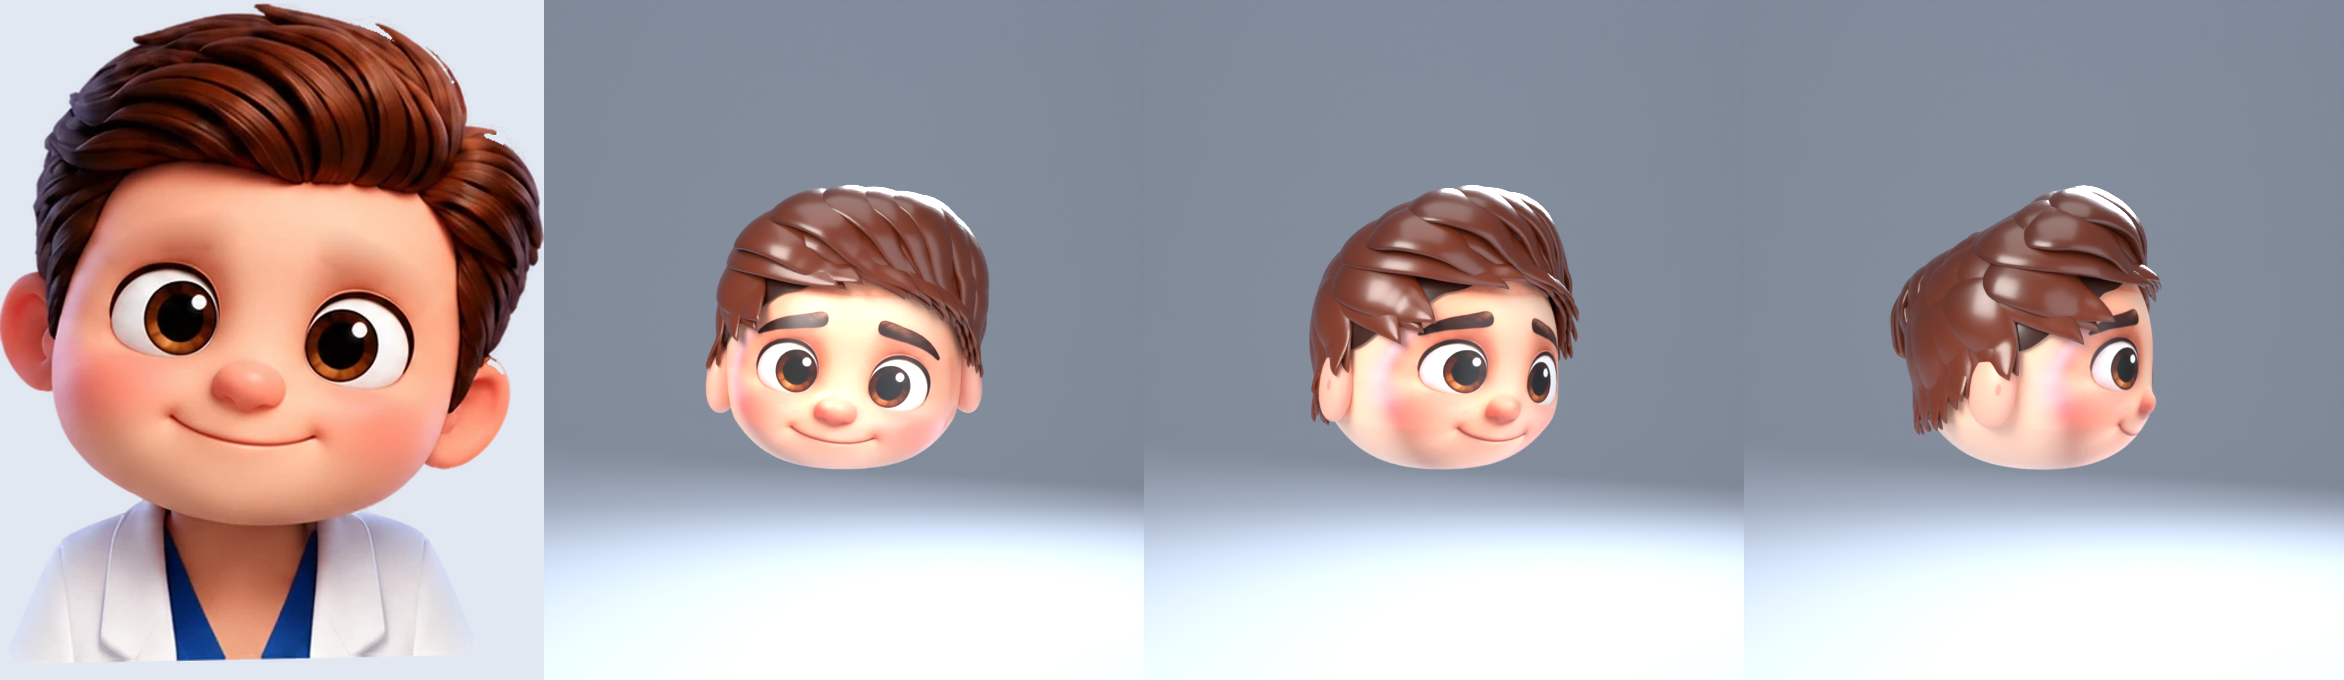
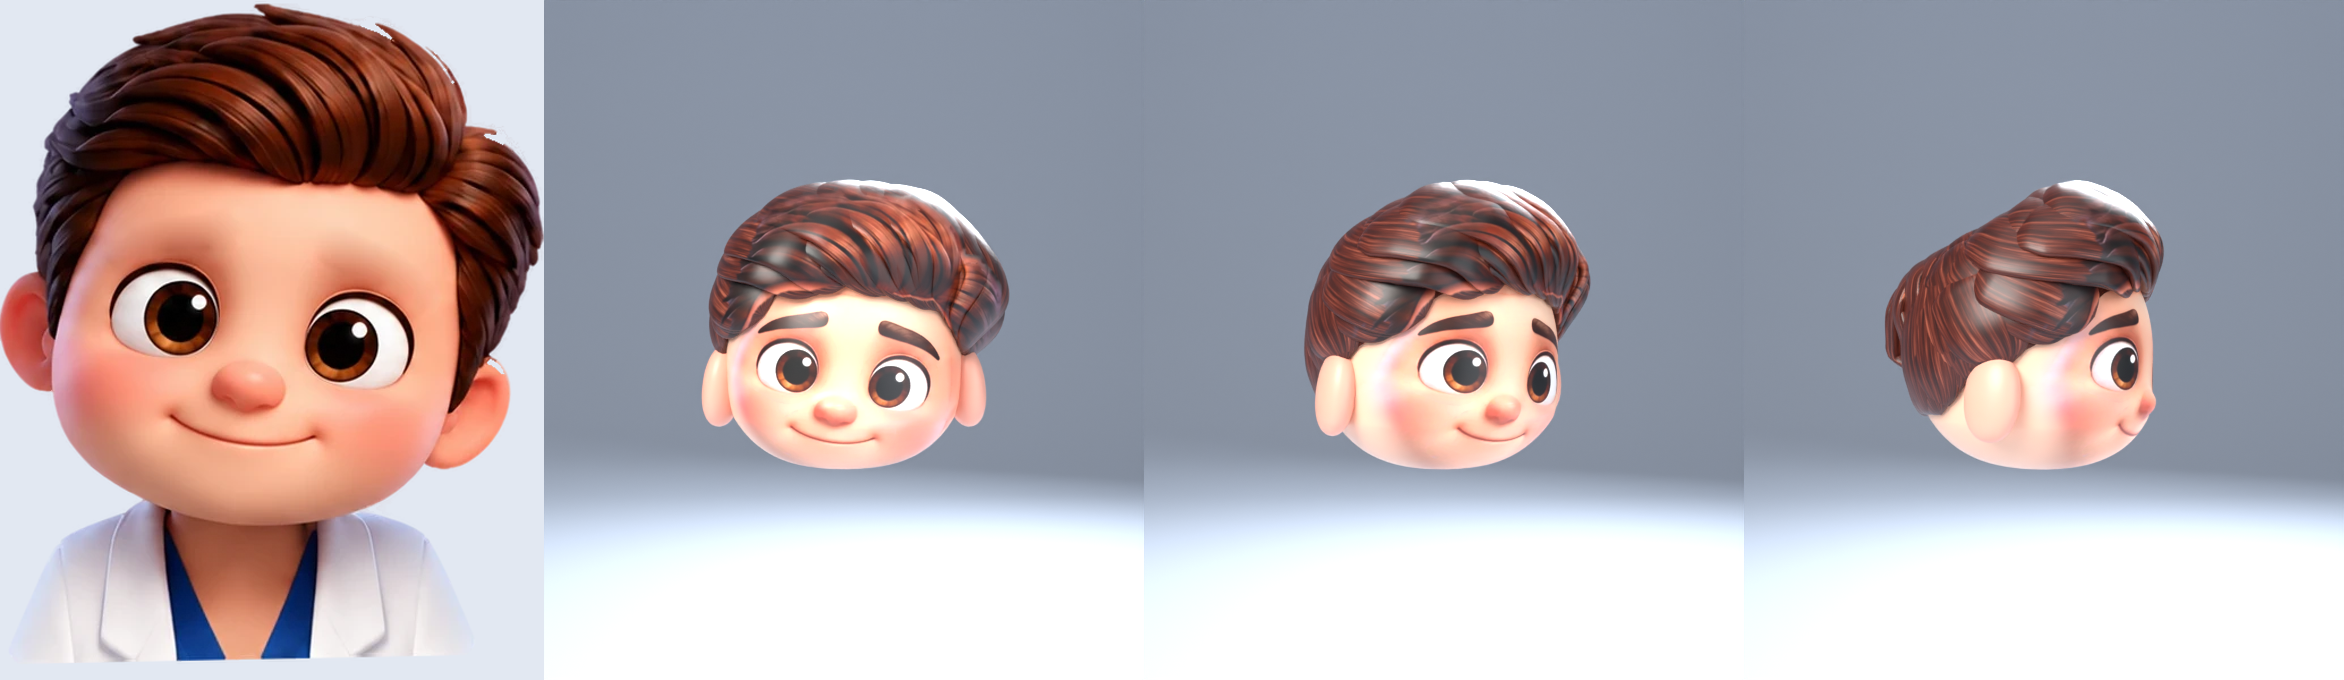
3D Dr. Smiley: art direction 3, his drawing wrapped on (Jose's pick)
STYLE 'film': the moulded locks keep the volume of the drawing's hair
outline (hair_t) but end rounded and tucked, as drawn; their material
puts base.webp's own hair on the front (front projection, prep.py
hair_textures: the hair cut out and grown into the background only) and
fine strands along each lock elsewhere, coloured with the drawing's hair
tones measured at five brightness levels. Bigger, lower ears; brighter,
warmer light; no stand, floor back under his feet. The figure style stays
as STYLE 'figure'. Poses and the turn not re-rendered yet.

Claude-Session: https://claude.ai/code/session_01KQpiRKykmEAhHZevf35uvQ

diff --git a/docs/mockups/smiley-3d/build.py b/docs/mockups/smiley-3d/build.py
@@ -312,11 +312,12 @@ def build_head(mats, coll):
 def build_ears(mats, coll):
     obs = []
     for side in (-1, 1):
-        c = head_point(sph(side * 90, -12)) + Vector((side * .006, .012, HZ))
+        big = 1.18 if STYLE_NOW == 'film' else 1.0      # the drawing's ears are big and sit low
+        c = head_point(sph(side * 90, -16 if big > 1 else -12)) + Vector((side * .008, .012, HZ))
         rot = Matrix.Rotation(math.radians(side * 18), 3, 'Z') @ Matrix.Rotation(math.radians(-8 * side), 3, 'Y')
-        outer = ellipsoid(f'Ear.{"L" if side > 0 else "R"}', c, (.026, .042, .058), mat=mats['ear'], rot=rot, p=2.2)
-        inner = ellipsoid(f'EarIn.{"L" if side > 0 else "R"}', c + rot @ Vector((side * .012, -.006, 0)),
-                          (.012, .028, .040), mat=mats['earin'], rot=rot)
+        outer = ellipsoid(f'Ear.{"L" if side > 0 else "R"}', c, (.026 * big, .042 * big, .058 * big), mat=mats['ear'], rot=rot, p=2.2)
+        inner = ellipsoid(f'EarIn.{"L" if side > 0 else "R"}', c + rot @ Vector((side * .012 * big, -.006, 0)),
+                          (.012 * big, .028 * big, .040 * big), mat=mats['earin'], rot=rot)
         for o in (outer, inner):
             coll.objects.link(o); bpy.context.scene.collection.objects.unlink(o)
         obs += [outer, inner]
@@ -547,7 +548,7 @@ def hair_t(d):
     return t / 1000 * k * (.25 + .75 * ramp)
 
 
-def fig_lock_traced(name, dirs, width, frac, flick, segs=18):
+def fig_lock_traced(name, dirs, width, frac, flick, segs=18, tuck=False):
     """A moulded lock along a streamline, lying at `frac` of the envelope."""
     m = len(dirs)
     if m < 4:
@@ -558,26 +559,35 @@ def fig_lock_traced(name, dirs, width, frac, flick, segs=18):
         f = max(0, min(1, (t - .7) / .3))
         root = min(1, t / .18) ** .7          # roots tuck into the cap at the crown
         rise = .004 + root * frac * 1.1 * hair_t(d) * (.6 + .4 * math.sin(math.pi * min(1, t * 1.6))) + flick * f * f * (3 - 2 * f)
+        if tuck:                               # drawn hair: the ends curl in against the head
+            rise = .004 + root * frac * 1.1 * hair_t(d) * (1 - .75 * f * f * (3 - 2 * f))
         spine.append((head_point(d, grow=rise), head_point(d, grow=rise + .01)))
-    verts, along = [], []
+    verts, along, uv_front, uv_lock = [], [], [], []
+    length = sum((spine[i + 1][0] - spine[i][0]).length for i in range(m - 1))
     for i, (p, pn) in enumerate(spine):
         t = i / (m - 1)
         tan = (spine[min(i + 1, m - 1)][0] - spine[max(i - 1, 0)][0]).normalized()
         nrm = (pn - p) - tan * (pn - p).dot(tan)
         nrm.normalize()
         bi = tan.cross(nrm)
-        w = width * (.45 + .55 * min(1, t / .25)) * max(0, 1 - t ** 2.4) ** .9
+        w = width * (.45 + .55 * min(1, t / .25)) * (max(0, 1 - t ** 4) ** .45 if tuck else max(0, 1 - t ** 2.4) ** .9)
         h = max(.004, .32 * w)
         if i == m - 1:
             w, h = .0004, .0004
         for k in range(segs):
             a = 2 * math.pi * k / segs
             sa = math.sin(a)
-            verts.append(p + bi * (w * math.cos(a)) + nrm * (h * sa * abs(sa) ** .35))
+            v = p + bi * (w * math.cos(a)) + nrm * (h * sa * abs(sa) ** .35)
+            verts.append(v)
             along.append(t)
-    ob = mesh_obj(name, verts, grid_faces(m, segs))
+            uv_front.append(((FACE_PX[0] + v.x * 1000) / 480, 1 - (FACE_PX[1] - v.z * 1000) / 600))
+            uv_lock.append((k / segs * width / .05, t * length / .05))
+    ob = mesh_obj(name, verts, grid_faces(m, segs), uvs=uv_front)
     ob.data.attributes.new('along', 'FLOAT', 'POINT').data.foreach_set('value', along)
-    ob.data.uv_layers.new(name='UVMap')
+    lay = ob.data.uv_layers.new(name='Lock')
+    for poly in ob.data.polygons:
+        for li in poly.loop_indices:
+            lay.data[li].uv = uv_lock[ob.data.loops[li].vertex_index]
     return ob
 
 
@@ -651,6 +661,7 @@ def build_hair_figure(mats, coll):
     cap = mesh_obj('HairCap', verts, faces, coll=coll)
     cap.data.attributes.new('along', 'FLOAT', 'POINT').data.foreach_set('value', [0.0] * len(verts))
     cap.data.uv_layers.new(name='UVMap')
+    cap.data.uv_layers.new(name='Lock')
     cap.data.materials.append(mats['hair'])
     parts.append(cap)
     # a little swirl where the locks meet at the crown
@@ -659,6 +670,7 @@ def build_hair_figure(mats, coll):
                        rot=WHORL.to_track_quat('Z', 'Y').to_matrix())
         sw.data.attributes.new('along', 'FLOAT', 'POINT').data.foreach_set('value', [.3] * len(sw.data.vertices))
         sw.data.uv_layers.new(name='UVMap')
+        sw.data.uv_layers.new(name='Lock')
         parts.append(sw)
     # locks traced from the crown (flow()), in three layers up to the envelope
     up = Vector((0, 0, 1))
@@ -673,10 +685,12 @@ def build_hair_figure(mats, coll):
             r = math.radians(ring + rng.uniform(-3, 3))
             d = (WHORL * math.cos(r) + (e1 * math.cos(ang) + e2 * math.sin(ang)) * math.sin(r)).normalized()
             dirs = trace(d, 3.0)
-            # carry on a little past the hairline so the tips end in points
-            for _ in range(4):
-                dirs.append((dirs[-1] + flow(dirs[-1]) * .03).normalized())
-            ob = fig_lock_traced(f'Lock.{i:02d}', dirs, rng.uniform(wmin, wmax), frac, .010 + .008 * layer)
+            tuck = STYLE_NOW == 'film'
+            if not tuck:                       # figure: carry on past the hairline so the tips end in points
+                for _ in range(4):
+                    dirs.append((dirs[-1] + flow(dirs[-1]) * .03).normalized())
+            wd = rng.uniform(wmin, wmax) * (1.25 if tuck else 1)
+            ob = fig_lock_traced(f'Lock.{i:02d}', dirs, wd, frac, .010 + .008 * layer, tuck=tuck)
             i += 1
             if ob:
                 ob.location.z = HZ
@@ -688,6 +702,92 @@ def build_hair_figure(mats, coll):
         if o.name in bpy.context.scene.collection.objects:
             bpy.context.scene.collection.objects.unlink(o)
     return join(parts, 'Hair')
+
+
+# ---------- the hair, wrapped (art direction 3, Jose's pick 2026-10-21) ----------
+def hair_film_material():
+    """His drawn hair on the front (projected like the face), drawn strands
+    from the same drawing everywhere else (box-mapped tile), blended by how
+    much the surface faces forward."""
+    m = principled('HairFilm', srgb(110, 42, 18), rough=.42, coat=.06)
+    N, L = m.node_tree.nodes, m.node_tree.links
+    b = N['Principled BSDF']
+    uv = N.new('ShaderNodeUVMap'); uv.uv_map = 'UVMap'
+    front = N.new('ShaderNodeTexImage'); front.name = 'HairFront'
+    front.image = bpy.data.images.load(os.path.join(TEX, 'hair_front.png'), check_existing=True)
+    front.extension = 'CLIP'; front.interpolation = 'Cubic'
+    L.new(uv.outputs['UV'], front.inputs['Vector'])
+    tc = N.new('ShaderNodeTexCoord')
+    luv = N.new('ShaderNodeUVMap'); luv.uv_map = 'Lock'
+    mp = N.new('ShaderNodeMapping')      # fine strands: fast across the lock, slow along it
+    mp.inputs['Scale'].default_value = (40, .5, 1)
+    L.new(luv.outputs['UV'], mp.inputs['Vector'])
+    nz = N.new('ShaderNodeTexNoise')
+    nz.inputs['Scale'].default_value = 1.0
+    nz.inputs['Detail'].default_value = 4
+    nz.inputs['Roughness'].default_value = .55
+    L.new(mp.outputs['Vector'], nz.inputs['Vector'])
+    tile = N.new('ShaderNodeValToRGB'); tile.name = 'HairStrands'   # browns sampled from his drawn hair
+    cr = tile.color_ramp
+    # the drawing's hair tones at its 10th, 30th, 50th, 70th and 90th percentiles of brightness
+    cr.elements[0].position, cr.elements[0].color = .32, srgb(30, 5, 2)
+    cr.elements[1].position, cr.elements[1].color = .44, srgb(56, 14, 5)
+    for pos, col in ((.52, (76, 23, 10)), (.60, (100, 42, 28)), (.70, (146, 76, 56))):
+        e = cr.elements.new(pos); e.color = srgb(*col)
+    L.new(nz.outputs['Fac'], tile.inputs['Fac'])
+    sep = N.new('ShaderNodeSeparateXYZ')
+    L.new(tc.outputs['Normal'], sep.inputs['Vector'])
+    mr = N.new('ShaderNodeMapRange')
+    mr.inputs['From Min'].default_value = -.2
+    mr.inputs['From Max'].default_value = -.6
+    L.new(sep.outputs['Y'], mr.inputs['Value'])
+    w = N.new('ShaderNodeMath'); w.operation = 'MULTIPLY'
+    L.new(mr.outputs['Result'], w.inputs[0]); L.new(front.outputs['Alpha'], w.inputs[1])
+    soft = N.new('ShaderNodeMix'); soft.data_type = 'RGBA'   # the drawn gaps are deep; soften them on the sides
+    soft.inputs['Factor'].default_value = 0.0
+    soft.inputs['B'].default_value = srgb(72, 22, 10)
+    L.new(tile.outputs['Color'], soft.inputs['A'])
+    mix = N.new('ShaderNodeMix'); mix.data_type = 'RGBA'
+    L.new(w.outputs['Value'], mix.inputs['Factor'])
+    L.new(soft.outputs['Result'], mix.inputs['A']); L.new(front.outputs['Color'], mix.inputs['B'])
+    L.new(mix.outputs['Result'], b.inputs['Base Color'])
+    L.new(mix.outputs['Result'], b.inputs['Emission Color'])
+    b.inputs['Emission Strength'].default_value = .16
+    return m
+
+
+def build_hair_film(mats, coll):
+    """One smooth hair shape filling the drawing's outline (hair_t), its lower
+    edge tucked into the head, with front-projection UVs like the face."""
+    segs, rings = 160, 70
+    verts, uvs, rows = [], [], []
+    for r in range(-1, rings + 1):
+        row = []
+        for s_ in range(segs):
+            az = 360 * s_ / segs - 180
+            lo = hairline(az)
+            if r < 0:
+                d = sph(az, lo - 3); g = -.006
+            else:
+                el = lo + (89.6 - lo) * (r / rings) ** .9
+                d = sph(az, el); g = .004 + 1.08 * hair_t(d)
+            p = head_point(d, grow=g)
+            row.append(len(verts))
+            verts.append(p + Vector((0, 0, HZ)))
+            uvs.append(((FACE_PX[0] + p.x * 1000) / 480, 1 - (FACE_PX[1] - p.z * 1000) / 600))
+        rows.append(row)
+    faces = []
+    for r in range(len(rows) - 1):
+        for s_ in range(segs):
+            faces.append((rows[r][s_], rows[r][(s_ + 1) % segs], rows[r + 1][(s_ + 1) % segs], rows[r + 1][s_]))
+    top = len(verts)
+    p = head_point((0, 0, 1), grow=.004 + 1.08 * hair_t(Vector((0, 0, 1))))
+    verts.append(p + Vector((0, 0, HZ)))
+    uvs.append(((FACE_PX[0] + p.x * 1000) / 480, 1 - (FACE_PX[1] - p.z * 1000) / 600))
+    faces += [(rows[-1][s_], rows[-1][(s_ + 1) % segs], top) for s_ in range(segs)]
+    ob = mesh_obj('Hair', verts, faces, uvs=uvs, coll=coll)
+    ob.data.materials.append(mats['hair'])
+    return ob
 
 
 def join(obs, name):
@@ -1186,7 +1286,7 @@ def studio():
     sc.cycles.use_denoising = True
     sc.view_settings.view_transform = 'Standard'
     sc.view_settings.look = 'None'
-    sc.view_settings.exposure = -.75
+    sc.view_settings.exposure = -.5 if STYLE_NOW == 'film' else -.75
     sc.render.film_transparent = False
     w = bpy.data.worlds.new('World'); sc.world = w
     w.use_nodes = True
@@ -1203,7 +1303,7 @@ def studio():
     area('Key', (-1.4, -2.0, 2.2), (0, 0, .6), 1.6, 190, (1, .97, .92))
     area('Fill', (2.0, -1.6, 1.0), (0, 0, .6), 2.5, 70, (.88, .93, 1))
     area('Rim', (.6, 2.2, 2.0), (0, 0, .7), 1.2, 160, (.9, .95, 1))
-    area('Top', (0, -.3, 3.0), (0, 0, .5), 2.0, 50)
+    area('Top', (0, -.3, 3.0), (0, 0, .5), 2.0, 50 if STYLE_NOW != 'film' else 20)
     # floor: a soft studio sweep (floor curving up into a back wall) in the app's blue-grey
     prof = []
     for i in range(41):
@@ -1220,7 +1320,8 @@ def studio():
             vs.append((x, y, z))
     m = len(prof)
     fs = [(i, i + 1, m + i + 1, m + i) for i in range(m - 1)]
-    fl = mesh_obj('Floor', [(x, y, z - STAND_H) for x, y, z in vs], fs)
+    drop = STAND_H if STYLE_NOW == 'figure' else 0
+    fl = mesh_obj('Floor', [(x, y, z - drop) for x, y, z in vs], fs)
     fm = principled('Floor', srgb(196, 206, 222), rough=.7, coat=0)
     fl.data.materials.append(fm)
     cam_d = bpy.data.cameras.new('Cam'); cam_d.lens = 85
@@ -1249,11 +1350,15 @@ def look(cam, target, dist, az, el):
     cam.rotation_euler = (t - cam.location).to_track_quat('-Z', 'Y').to_euler()
 
 
-STYLE = 'figure'      # 'figure' (art direction 2) or 'v1' (the first look, kept for comparison)
+STYLE = 'film'        # 'film' (art direction 3: his drawing wrapped on), 'figure' (2) or 'v1' (the first look)
+
+
+STYLE_NOW = STYLE
 
 
 def build(head_only=False, style=None):
-    style = style or STYLE
+    global STYLE_NOW
+    style = STYLE_NOW = style or STYLE
     bpy.ops.wm.read_factory_settings(use_empty=True)
     coll = bpy.data.collections.new('DrSmiley'); bpy.context.scene.collection.children.link(coll)
     mats = {
@@ -1261,7 +1366,7 @@ def build(head_only=False, style=None):
         'skin': principled('Skin', SKIN, rough=.42, coat=.18, sss=.12),
         'ear': principled('Ear', SKIN_EAR, rough=.45, coat=.15, sss=.15),
         'earin': principled('EarIn', srgb(236, 140, 128), rough=.5, coat=.1, sss=.15),
-        'hair': fig_hair_material() if style == 'figure' else hair_material(),
+        'hair': {'figure': fig_hair_material, 'film': hair_film_material}.get(style, hair_material)(),
         'coat': principled('Coat', COAT, rough=.42, coat=.3) if style == 'figure' else principled('Coat', COAT, rough=.55, coat=.12, sheen=.3),
         'scrub': principled('Scrubs', SCRUB, rough=.45, coat=.25) if style == 'figure' else principled('Scrubs', SCRUB, rough=.6, coat=.08, sheen=.4),
         'shoe': principled('Shoe', SHOE, rough=.4, coat=.3),
@@ -1279,7 +1384,7 @@ def build(head_only=False, style=None):
     ears = build_ears(mats, coll)
     for e in ears:
         subsurf(e, 1)
-    hair = build_hair_figure(mats, coll) if style == 'figure' else build_hair(mats, coll)
+    hair = {'figure': build_hair_figure, 'film': build_hair_figure}.get(style, build_hair)(mats, coll)
     subsurf(hair, 1)
     arm = None
     if not head_only:

diff --git a/docs/mockups/smiley-3d/prep.py b/docs/mockups/smiley-3d/prep.py
@@ -136,3 +136,51 @@ if __name__ == '__main__':
         name = job[2] if len(job) > 2 else f
         face_texture(f, b, base).save(os.path.join(OUT, f'face_{name}.png'))
         print('tex', f, b)
+
+
+def hair_textures():
+    """The drawing's own hair, for wrapping: hair_front.png (base.webp's hair
+    only, its edge grown a few pixels so the 3D outline never shows the
+    background) and hair_tile.png (a patch of drawn strands, mirrored so it
+    repeats without seams, for the sides, top and back)."""
+    im = np.array(load('base.webp')).astype(np.float32)
+    R, G, B, A = [im[..., i] for i in range(4)]
+    mx = np.maximum(np.maximum(R, G), B)
+    hair = (A > 128) & (((mx < 175) & (R > G * 1.15) & (R > B * 1.3)) | ((R < 215) & (G < 130) & (B < 100) & (R > G + 30)))
+    h, w = R.shape
+    yy, xx = np.mgrid[0:h, 0:w]
+    cx, cy, rx, ry = OVAL
+    face = ((xx - cx) / (rx * .93)) ** 2 + ((yy - cy) / (ry * .93)) ** 2 < 1
+    ears = ((xx < 70) & (yy > 235)) | ((xx > 395) & (yy > 330))
+    keep = hair & ~face & ~ears & (yy < 400)
+    keep = cv2.morphologyEx(keep.astype(np.uint8), cv2.MORPH_CLOSE, np.ones((7, 7), np.uint8)) > 0
+    # keep only the big hair region (drops stray dark pixels in the eyes, mouth)
+    n, lab, stats, _ = cv2.connectedComponentsWithStats(keep.astype(np.uint8))
+    big = 1 + int(np.argmax(stats[1:, cv2.CC_STAT_AREA]))
+    keep = lab == big
+    rgb = im[..., :3].astype(np.uint8).copy()
+    # grow the colour outwards (into the background only, never into skin) so
+    # the 3D outline can sit a little past the drawn one
+    bgnd = A < 128
+    grow = (cv2.dilate(keep.astype(np.uint8), np.ones((15, 15), np.uint8)) > 0) & bgnd
+    rgb = cv2.inpaint(rgb, grow.astype(np.uint8) * 255, 7, cv2.INPAINT_TELEA)
+    soft = keep | grow
+    alpha = cv2.GaussianBlur(soft.astype(np.uint8) * 255, (5, 5), 0)
+    out = np.dstack([rgb, alpha])
+    img = Image.fromarray(out, 'RGBA').resize((w * SCALE, h * SCALE), Image.LANCZOS)
+    img.save(os.path.join(OUT, 'hair_front.png'))
+    # strands for everywhere else: a patch of drawn hair made seamless by
+    # blending it with itself shifted half a tile (no mirror images)
+    P = im[40:112, 130:330, :3].astype(np.float32)
+    P = cv2.resize(P, (P.shape[1] * 2, P.shape[0] * 2), interpolation=cv2.INTER_LANCZOS4)
+    H, W = P.shape[:2]
+    for axis, n in ((1, W), (0, H)):
+        tri = 1 - np.abs(np.linspace(-1, 1, n))
+        m = tri[None, :, None] if axis == 1 else tri[:, None, None]
+        P = P * m + np.roll(P, n // 2, axis=axis) * (1 - m)
+    Image.fromarray(np.clip(P, 0, 255).astype(np.uint8)).save(os.path.join(OUT, 'hair_tile.png'))
+
+
+if __name__ == '__main__':
+    hair_textures()
+    print('hair textures')
